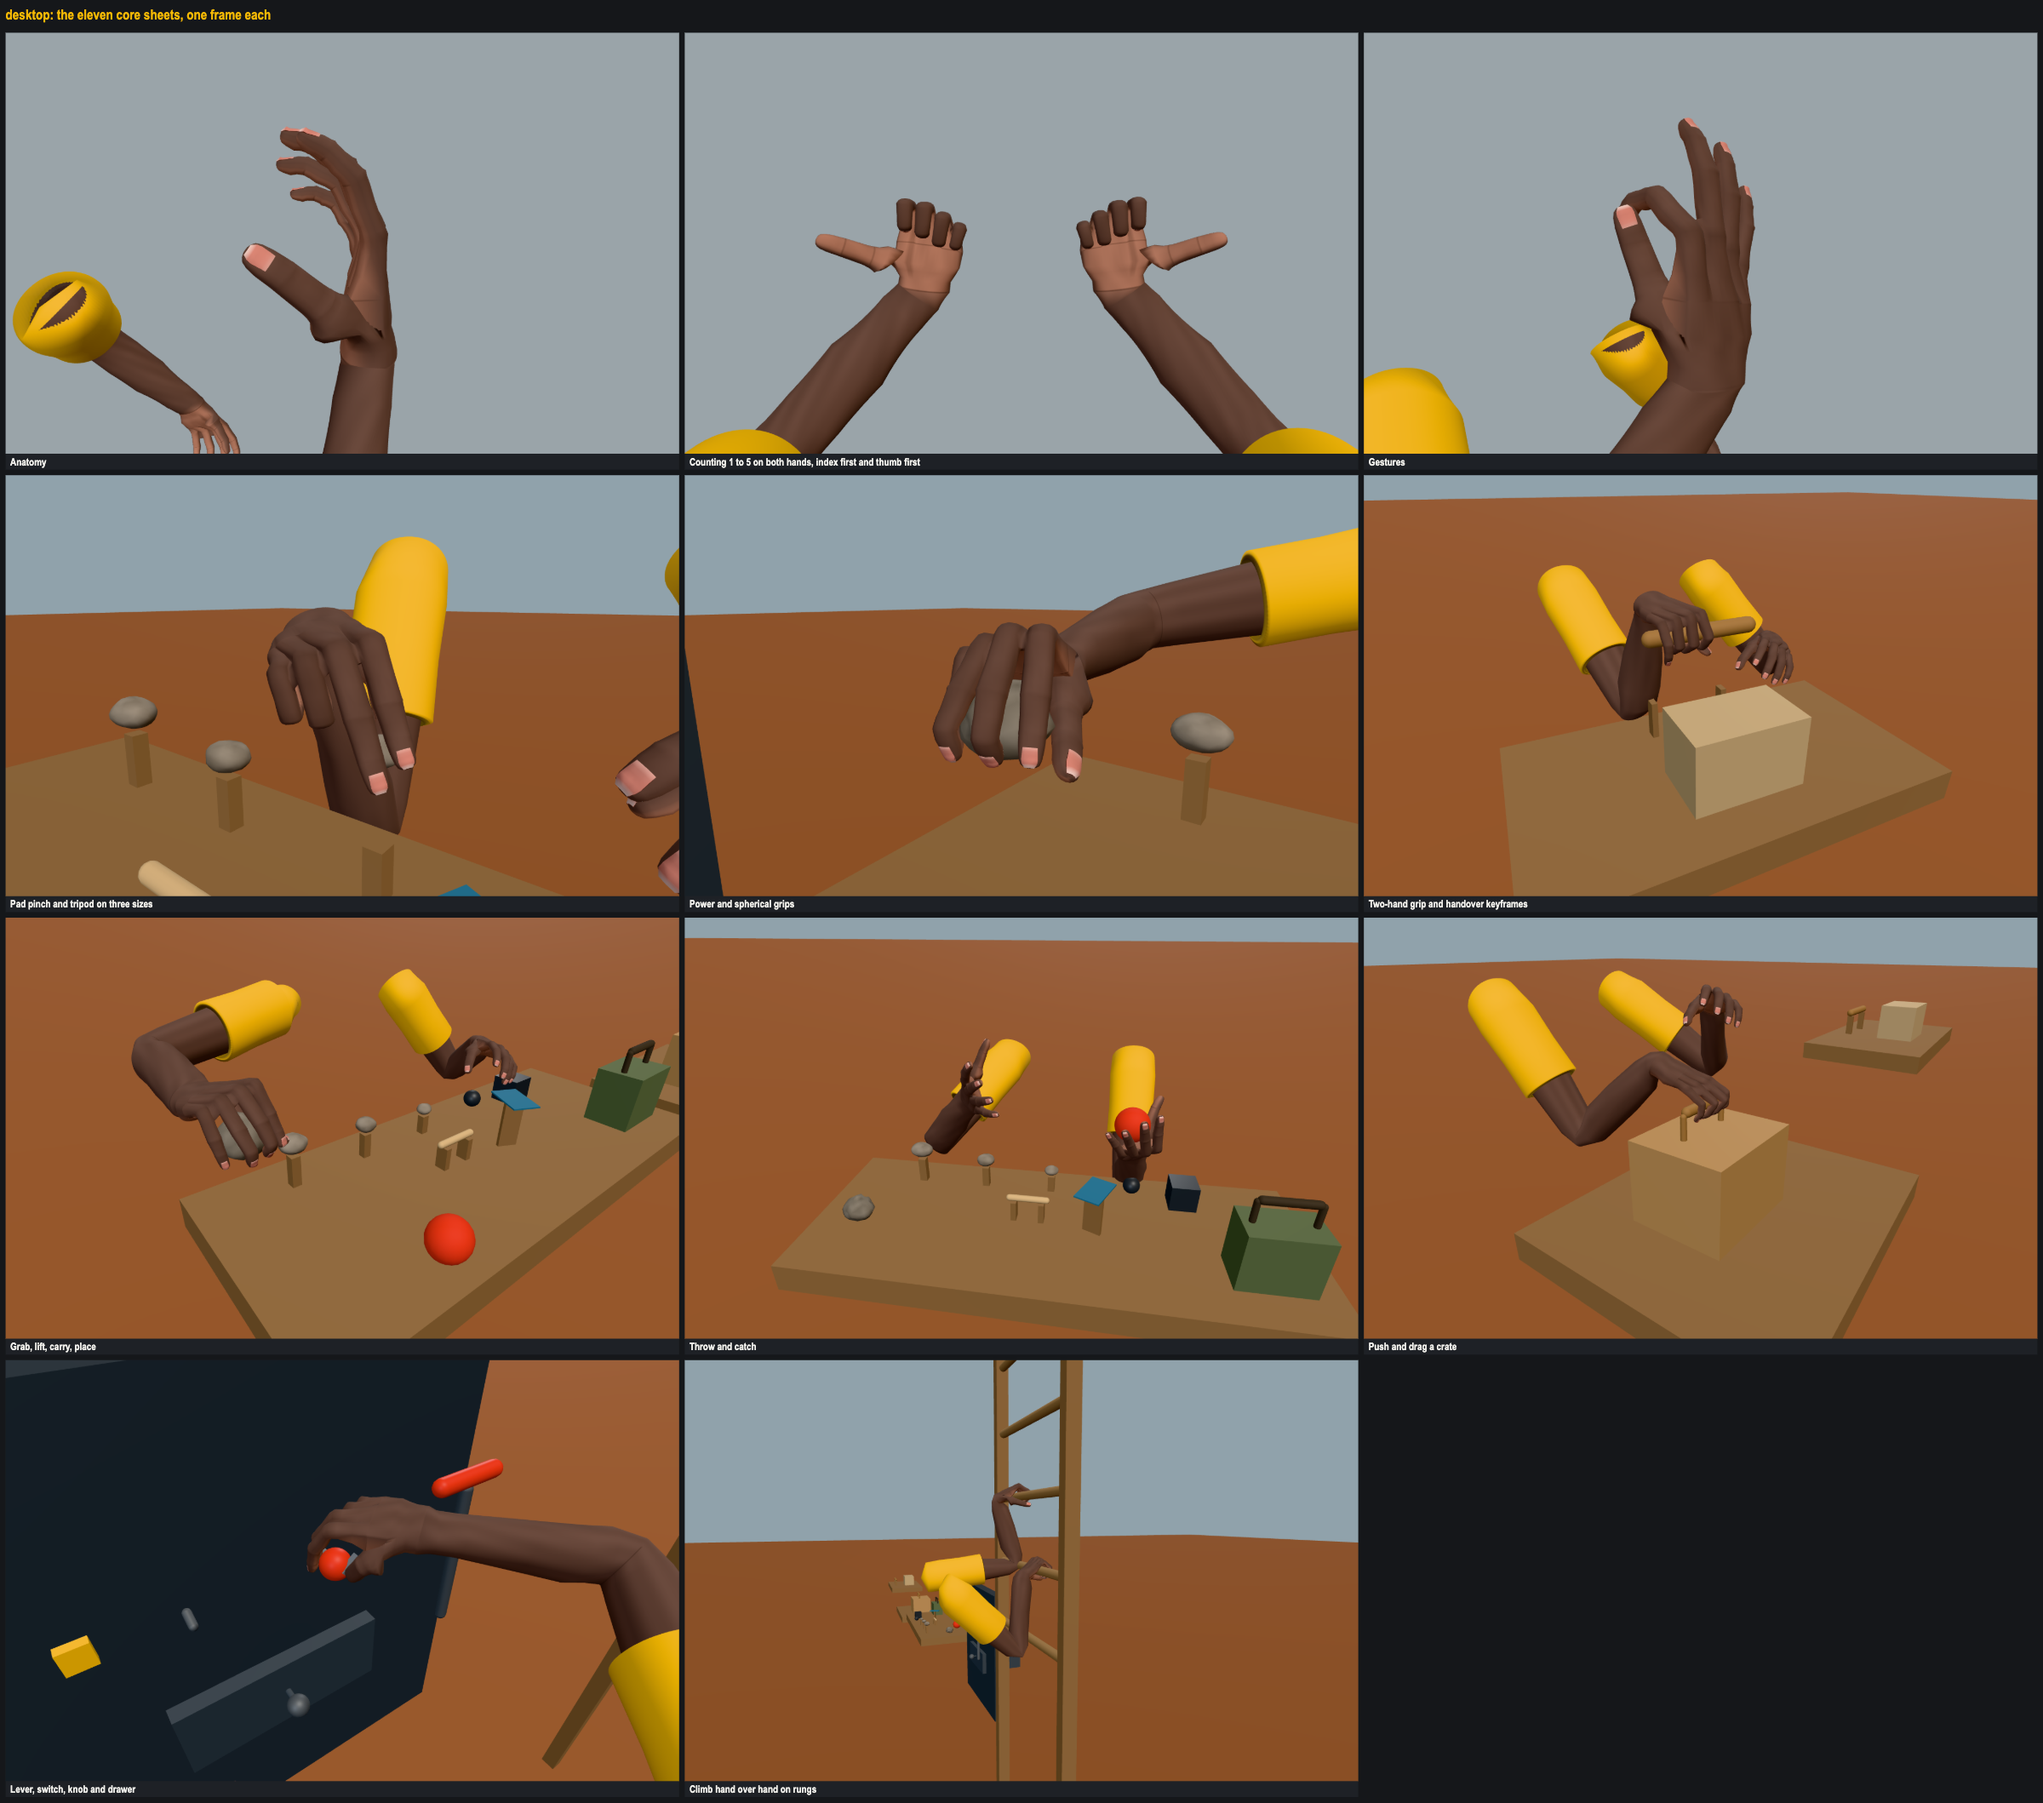
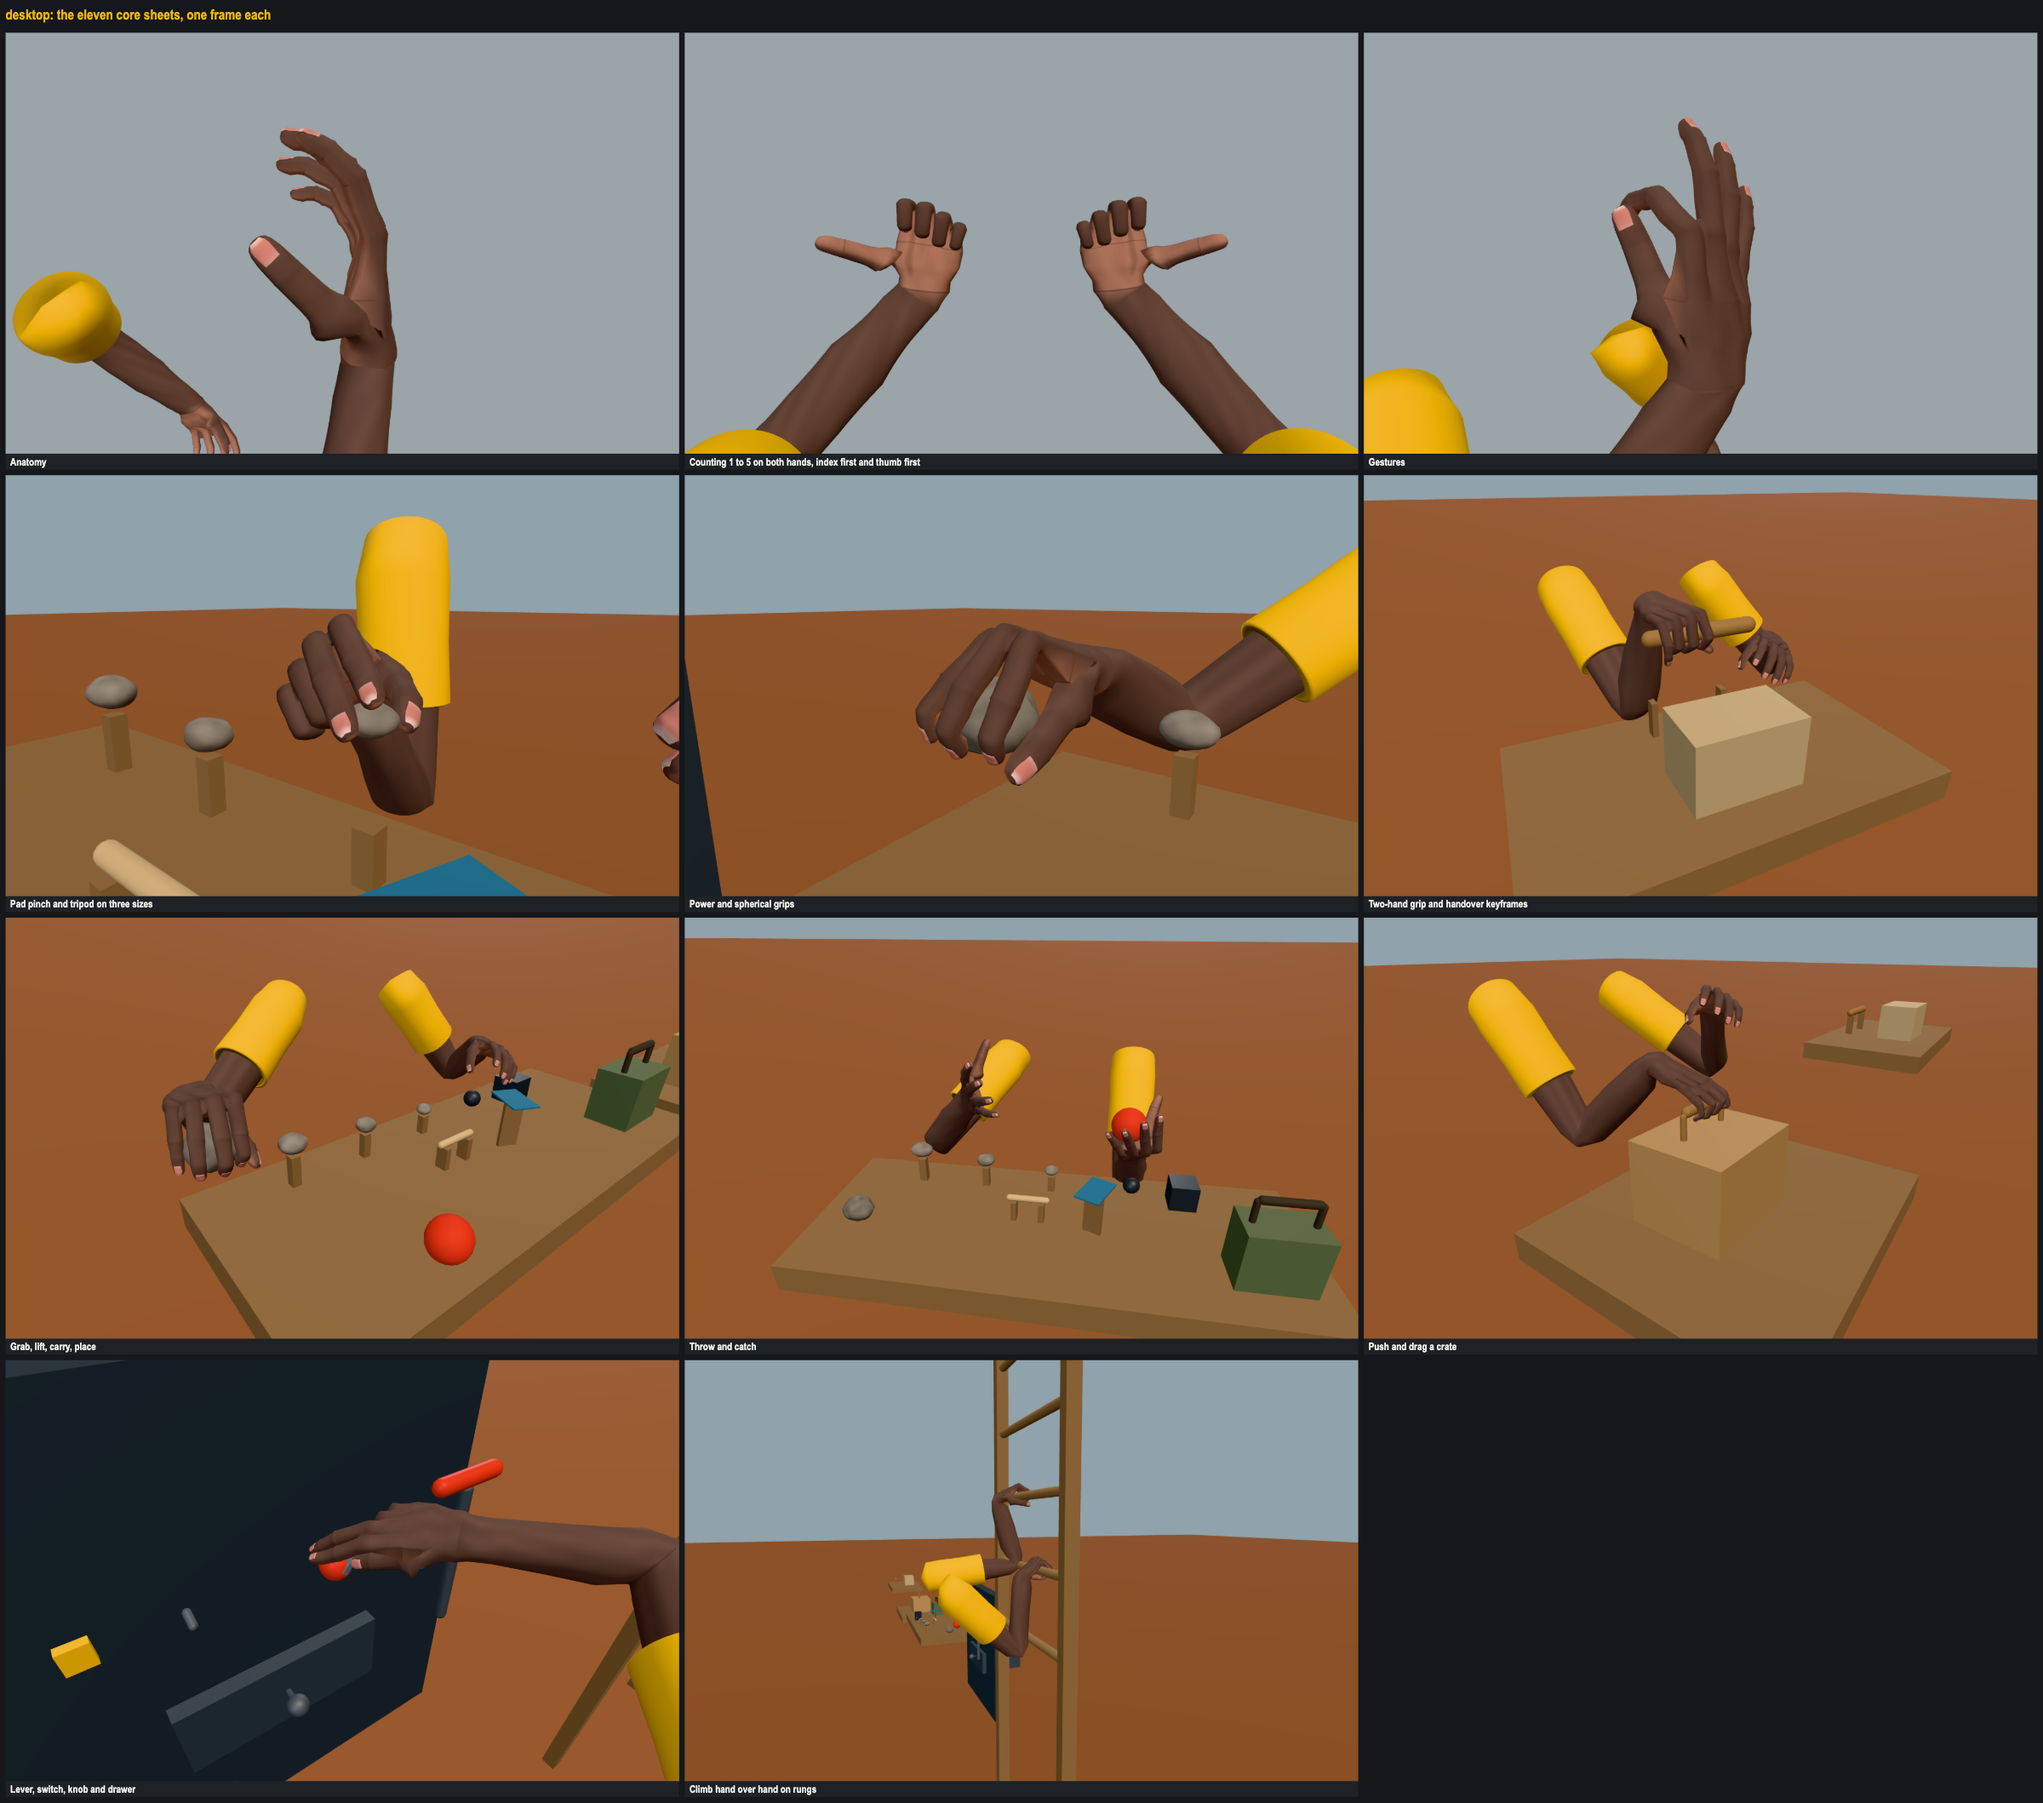
Docs: the set-down, the thumb at rest, the sleeve and the thumb's cuff
HANDS_SANDBOX_SPEC.md gains a mesh fixes section (the sleeve's shoulder
dome and the thumb's cuff, each with its check and why its limit is what
it is). HANDS_TWIST_FINDINGS.md points to the two mesh fixes and their
before and after renders. Overview images regenerated with the core
gallery; all 33 core sheets changed.

diff --git a/docs/HANDS_TWIST_FINDINGS.md b/docs/HANDS_TWIST_FINDINGS.md
@@ -135,6 +135,12 @@ It also explains the rendered skin-tone drift. The winding commit (e7eae3f) turn
 | skinning: forearm skin turns along the forearm as Kulesh 2015 measured it | yes | equal thirds: 0.56 of the hand's turn at 55 percent of the forearm against Kulesh's 0.34 (0.22 off, limit 0.05) |
 | skinning: the forearm keeps its girth from full pronation to full supination | yes | candy wrap deeper than the equal-thirds rig's 79.2 percent (the held two-bone patch would have reached it) |
 
+## Two mesh faults found alongside
+
+- The thumb's cuff at the MCP (a knuckle ring and a crease band where the taper turned sharply) is fixed; see [the spec](HANDS_SANDBOX_SPEC.md#mesh-fixes) and the renders in `assets/mesh/thumb-shape.png` (before above, after below; palm, back, radial, ulnar).
+- The far sleeve's jagged end (the skin coming out through the sleeve's shoulder dome) is fixed; renders in `assets/mesh/sleeve-*.png` at the three viewports.
+- The thumb at rest before and after the roll, four views: `assets/twist/thumb-rest.png`.
+
 ## Findings not fixed
 
 - **Transit sampling in the reach planner.** `solveTransitCost` samples a leg at six points, 6 cm apart on a 35 cm leg, so a hand can pass straight through a 32 mm rung between samples. This is how the held pronation patch put the thumb metacarpal 14.1 mm into the rung in Hang. Sampling every 1.5 cm catches it, but it changes route choice elsewhere (Hang on the way home 23 mm, a missed lever grasp), because the arm's springs cut the corners of the planned legs. Fixing it needs the planner to check the path the arm will actually take.

diff --git a/docs/HANDS_SANDBOX_SPEC.md b/docs/HANDS_SANDBOX_SPEC.md
@@ -196,6 +196,16 @@ A body set down is held or resting on its surface at every frame, from the set-d
 
 </details>
 
+## MESH FIXES
+
+<details>
+<summary>The sleeve's shoulder end, and the thumb's cuff</summary>
+
+- Sleeve: the anatomy sheet's jagged "open end" was the far sleeve's shoulder end. The skin's shoulder cap (weighted half shoulder, half upper arm) came out through the cloth dome over it (weighted 0.6 and 0.4) when the arm rose and turned. The dome is now weighted as the skin is. `sleeve: no skin the sleeve covers comes out through the cloth, in any shoulder pose` skins 25 shoulder poses (flex 0 to 160 deg, twist -90 to 90): 16.2 mm out before, at least 2.7 mm in now. No triangles added.
+- Thumb: it read as a tube with a cuff at the MCP. The taper turned sharply there (1.0 mm per 1.5 mm slice) and the MCP ring carried a knuckle bump and a palmar crease band. The bump and band are gone from the MCP and the thenar ring nearest it blends further toward the metacarpal. `thumb: the skin tapers from the thenar to the IP joint without a step, a bulge or a cuff` holds the change of taper to 0.75 mm per slice (0.52 now); no published figure gives a thumb's taper, so the limit is a visual judgement. No ring, triangle or bone added.
+
+</details>
+
 ## BUDGETS
 
 Two sets, each measured on its own subject. npm run hands:check fails if any value goes over its limit.
